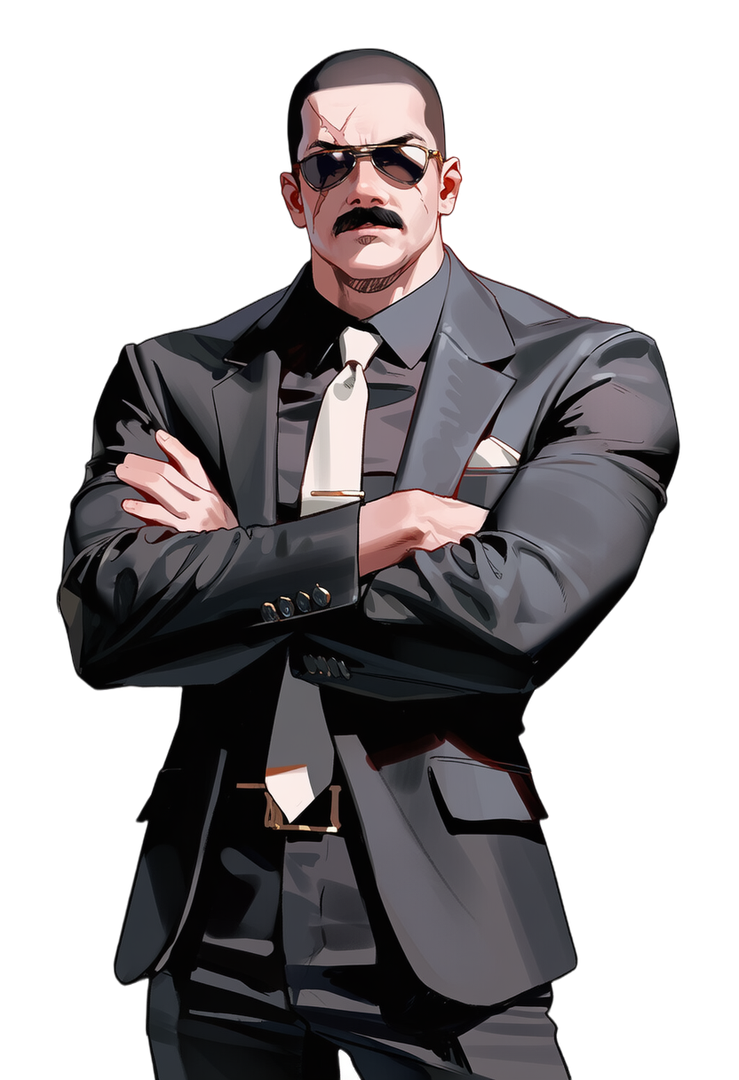
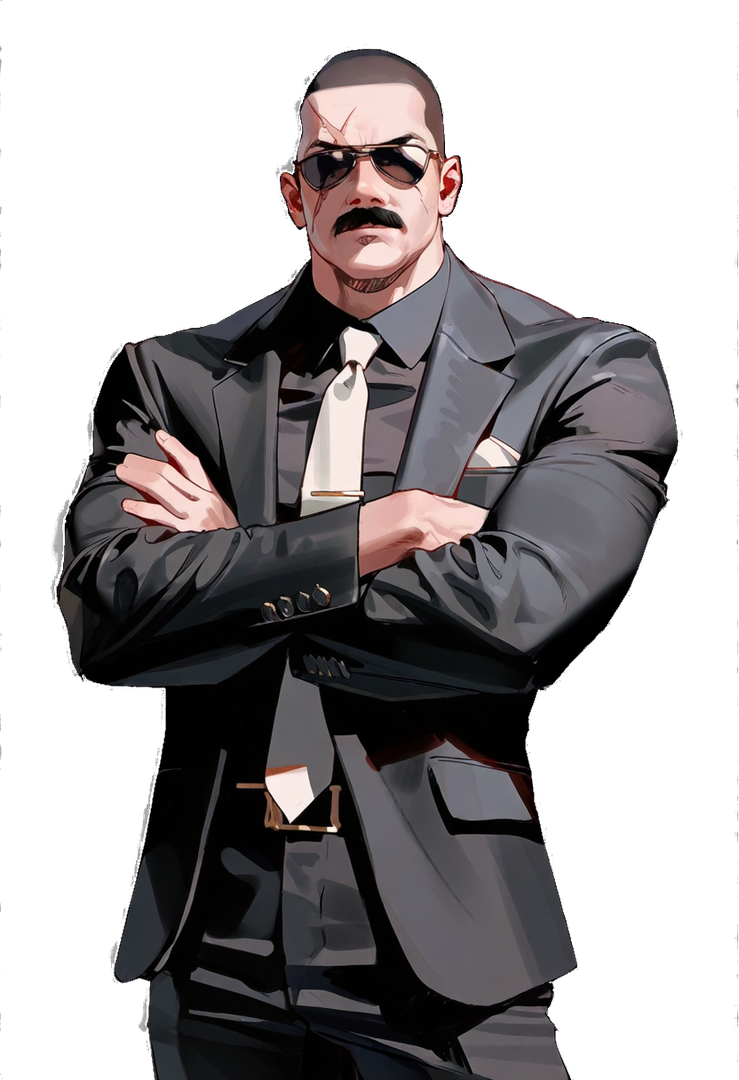
art: 캐릭터 27장 배경 제거를 NovelAI Remove BG 결과로 교체 (머리카락 사이 흰 빈틈 완전 제거)

diff --git a/docs/ART.md b/docs/ART.md
@@ -31,7 +31,7 @@ python3 -m venv /tmp/artvenv && /tmp/artvenv/bin/pip install "rembg[cpu]" numpy 
 swiftc -O tools/art/cutout.swift -o /tmp/cutout   # 아이콘용 macOS Vision 전경 마스크
 /tmp/artvenv/bin/python tools/art/export.py       # art/ → Assets/Resources/Art
 ```
-- 캐릭터: 애니 전용 분할 모델 **isnet-anime**(rembg, 첫 실행 때 176MB 자동 다운로드) + 가장자리 흰색 언믹스 (`tools/art/clean.py`). macOS Vision은 머리카락 사이 흰 빈틈을 못 지워서 캐릭터에는 쓰지 않는다.
+- 캐릭터: **NovelAI Director Tools → Remove BG**(장당 65 Anlas)의 `generated` 결과를 `art/nobg/<이름>.png`로 두면 그걸 쓴다(머리카락 사이까지 가장 깨끗, 현재 27장 전부). 없으면 애니 전용 분할 모델 **isnet-anime**(rembg, 첫 실행 때 176MB 자동 다운로드) + 가장자리 흰색 언믹스 (`tools/art/clean.py`). macOS Vision은 머리카락 사이 흰 빈틈을 못 지워서 캐릭터에는 쓰지 않는다.
 - 아이콘: macOS Vision (물건은 이쪽이 그림자까지 깔끔).
 ```
 ```
